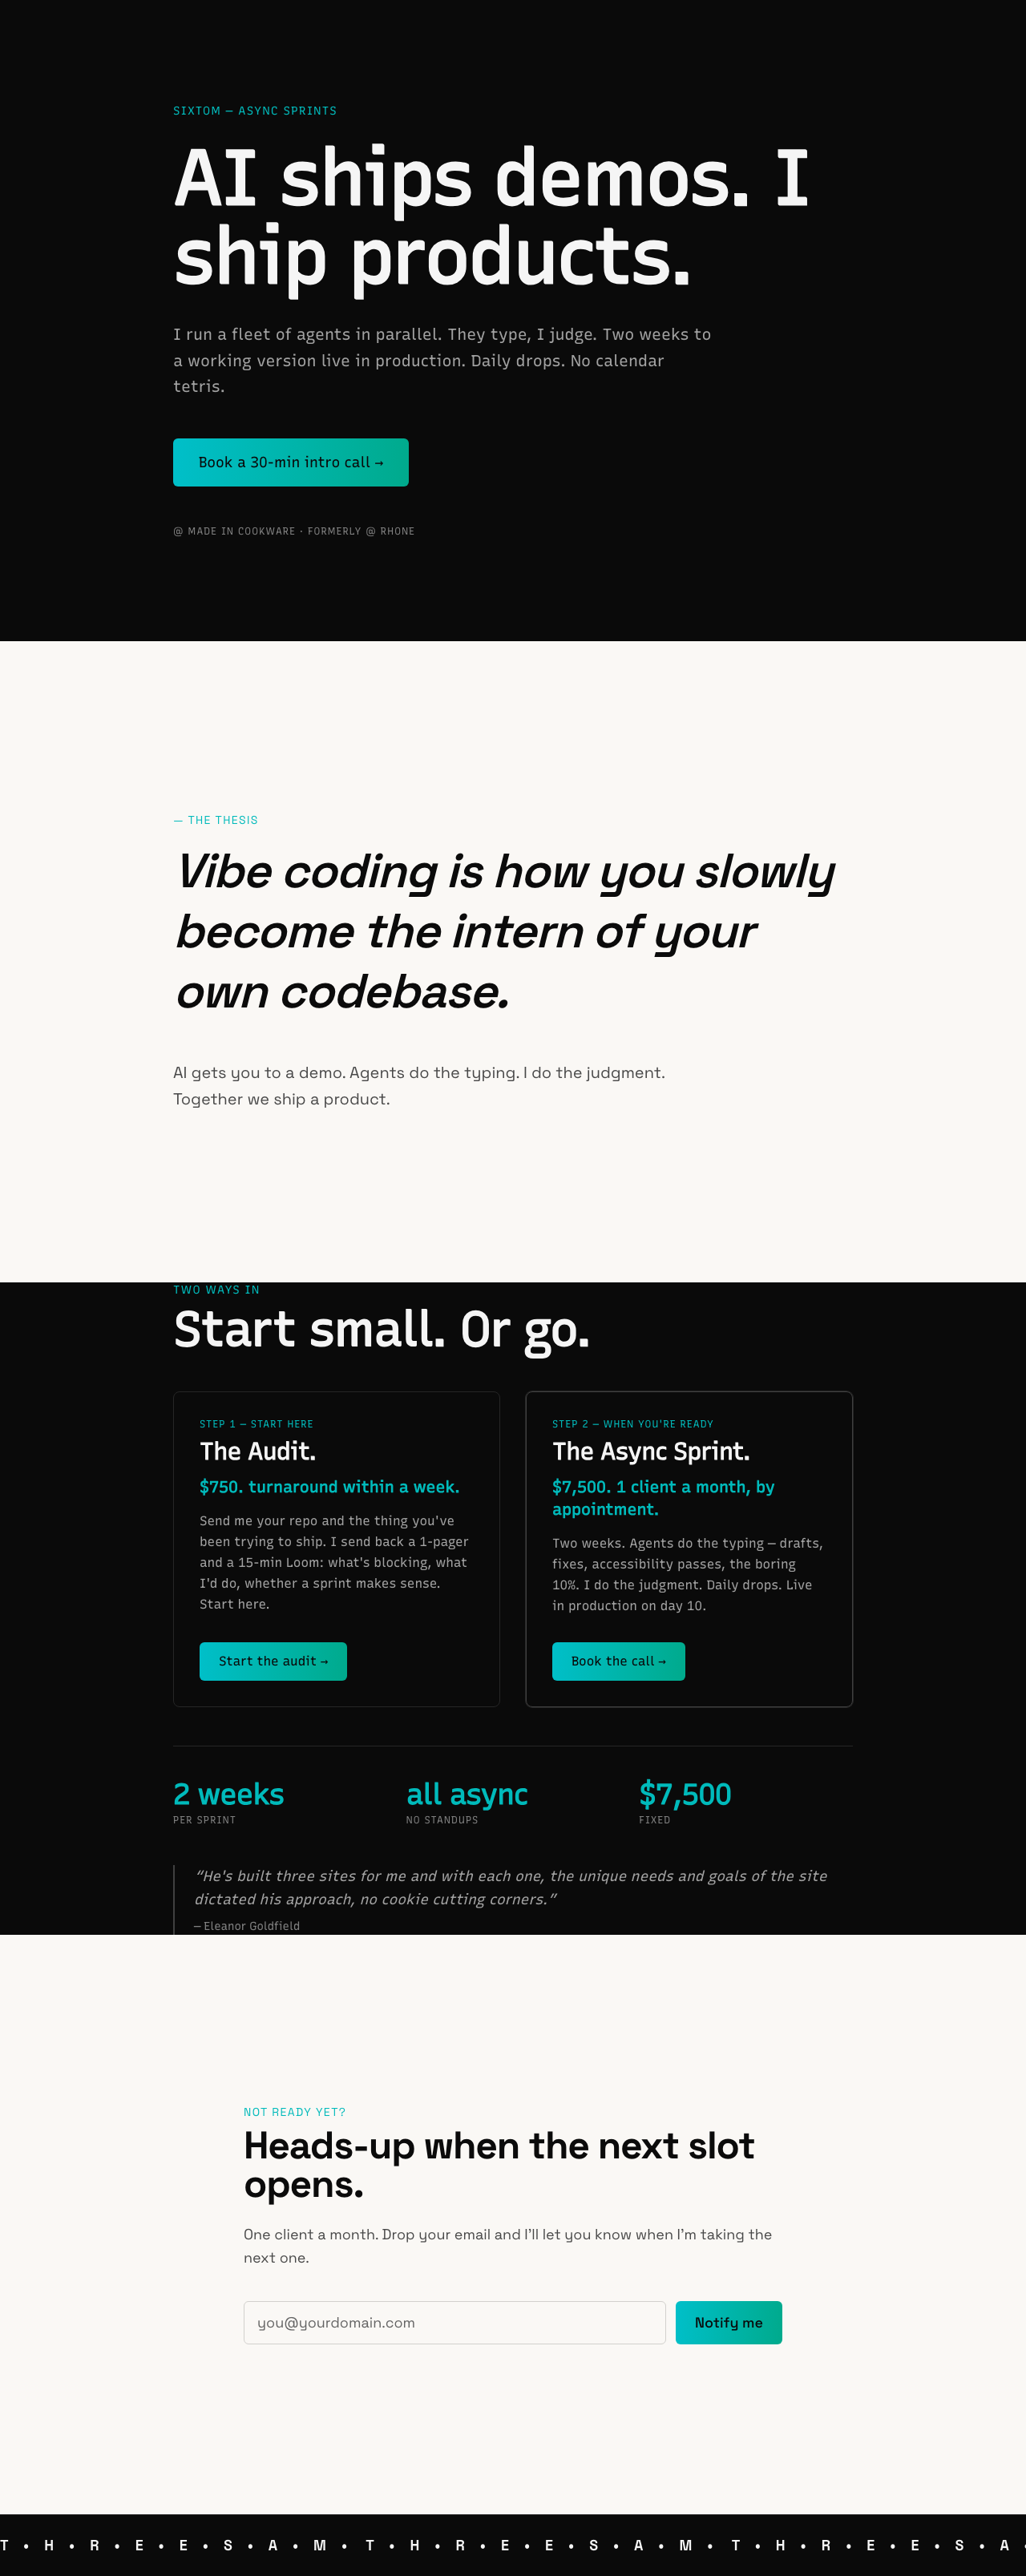
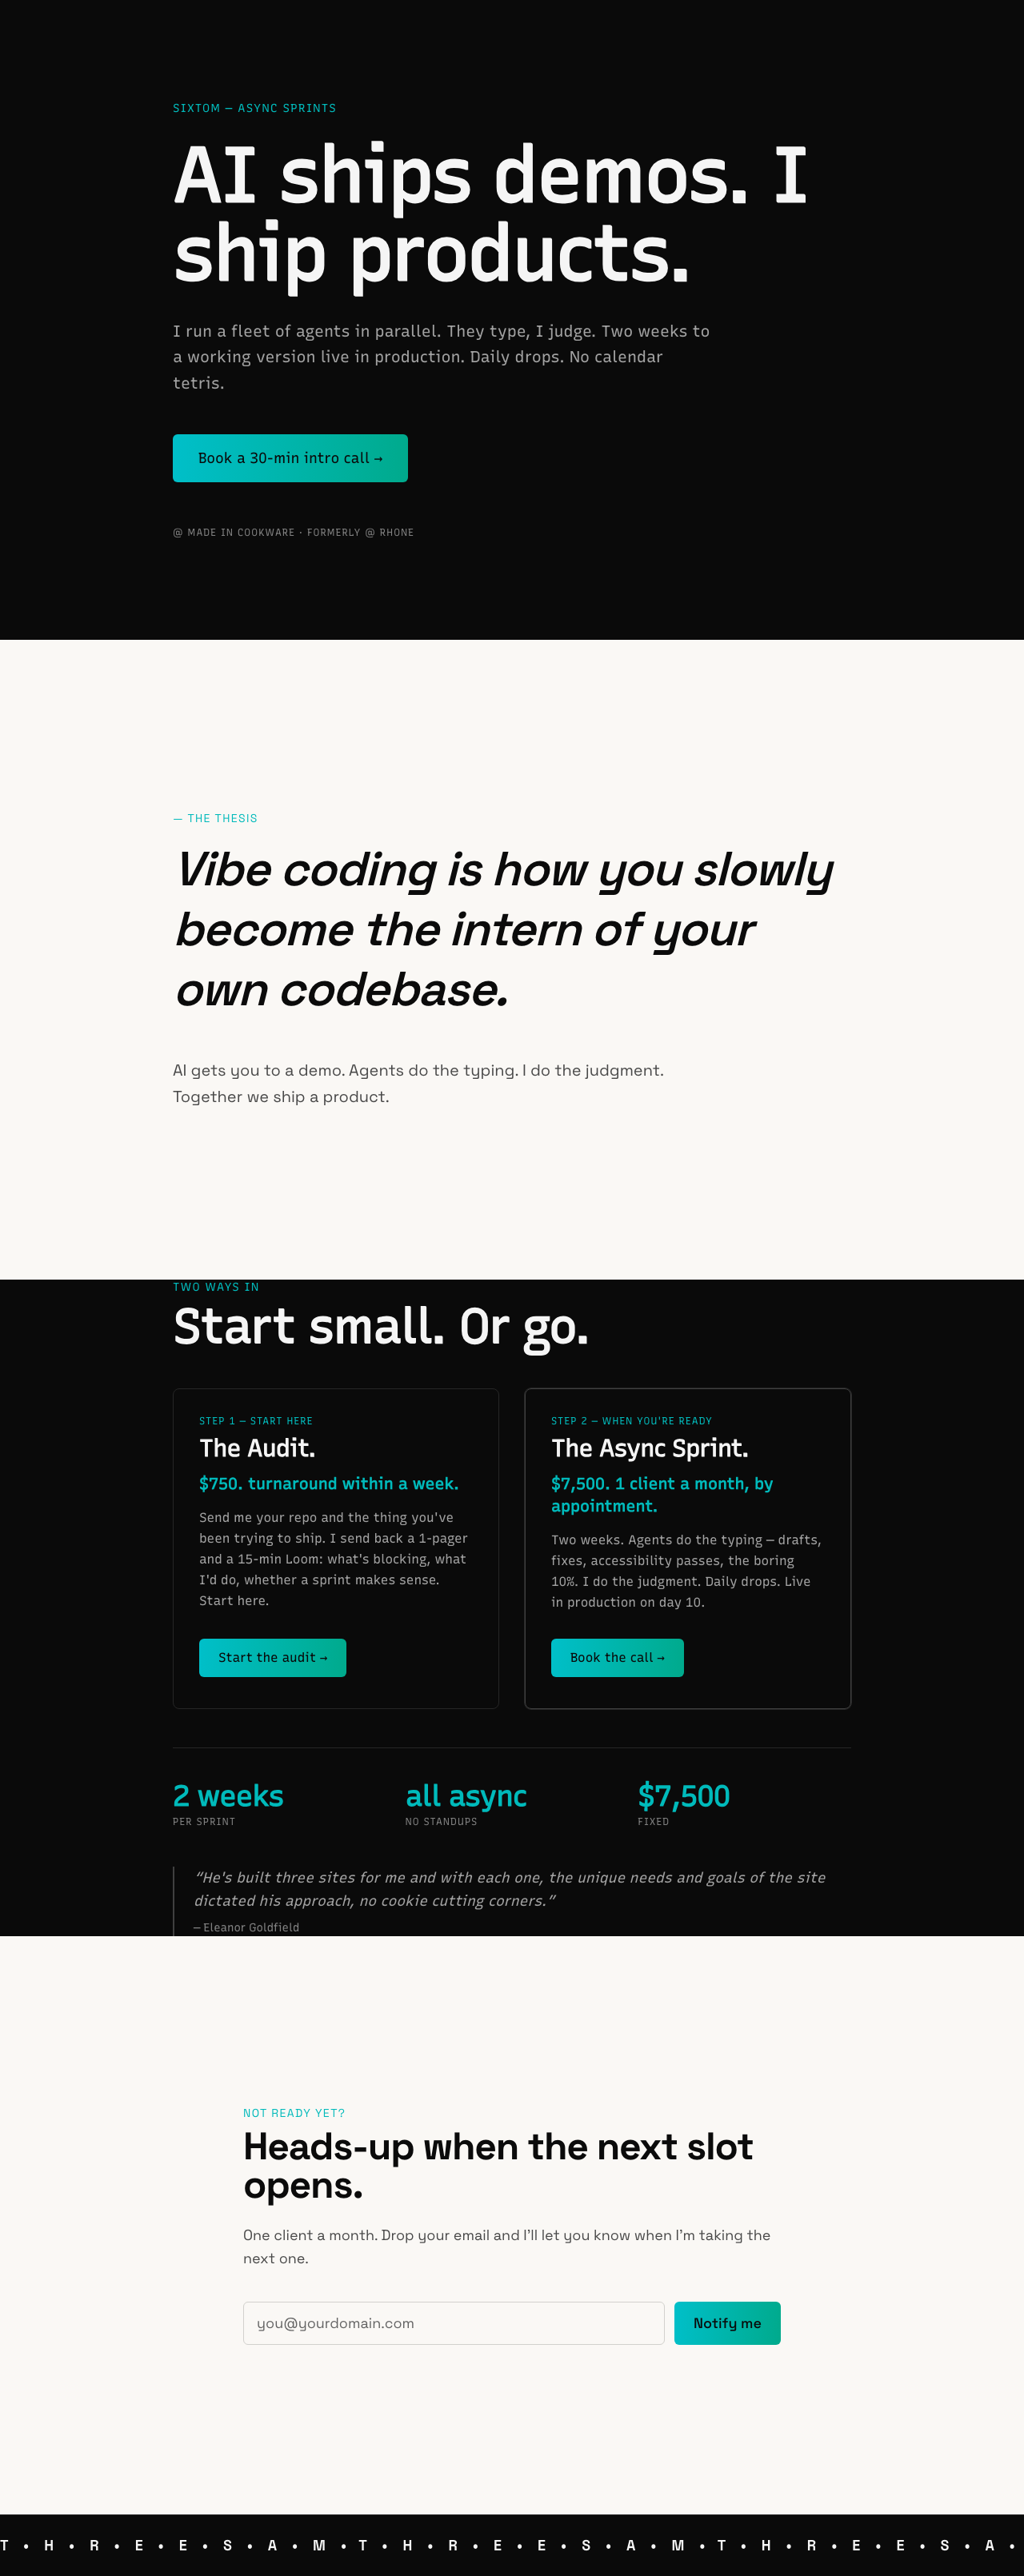
Merge: shine sweep on btn-accent hover
btn-accent: shine sweep on hover

Pull request: btn-accent: shine sweep on hover
Single diagonal white pseudo-gradient sweeps across the button on hover (option 2 from the prior art list). 0.7s ease, prefers-reduced-motion respected.

diff --git a/src/app.css b/src/app.css
@@ -78,6 +78,9 @@
 
 @utility btn-accent {
 	display: inline-block;
+	position: relative;
+	overflow: hidden;
+	isolation: isolate;
 	/* background-color is the fallback if --gradient-accent fails to parse. */
 	background-color: var(--color-accent);
 	background-image: var(--gradient-accent);
@@ -85,6 +88,33 @@
 	border-radius: 0.375rem;
 	font-weight: 500;
 	transition: opacity 0.15s;
+}
+/* Shine sweep on hover — a diagonal white pass crosses the button once. */
+.btn-accent::before {
+	content: '';
+	position: absolute;
+	inset: 0;
+	background: linear-gradient(
+		115deg,
+		transparent 30%,
+		rgba(255, 255, 255, 0.45) 50%,
+		transparent 70%
+	);
+	transform: translateX(-100%);
+	pointer-events: none;
+}
+.btn-accent:hover::before {
+	animation: btn-shine 0.7s ease;
+}
+@keyframes btn-shine {
+	to {
+		transform: translateX(100%);
+	}
+}
+@media (prefers-reduced-motion: reduce) {
+	.btn-accent:hover::before {
+		animation: none;
+	}
 }
 
 @utility eyebrow {